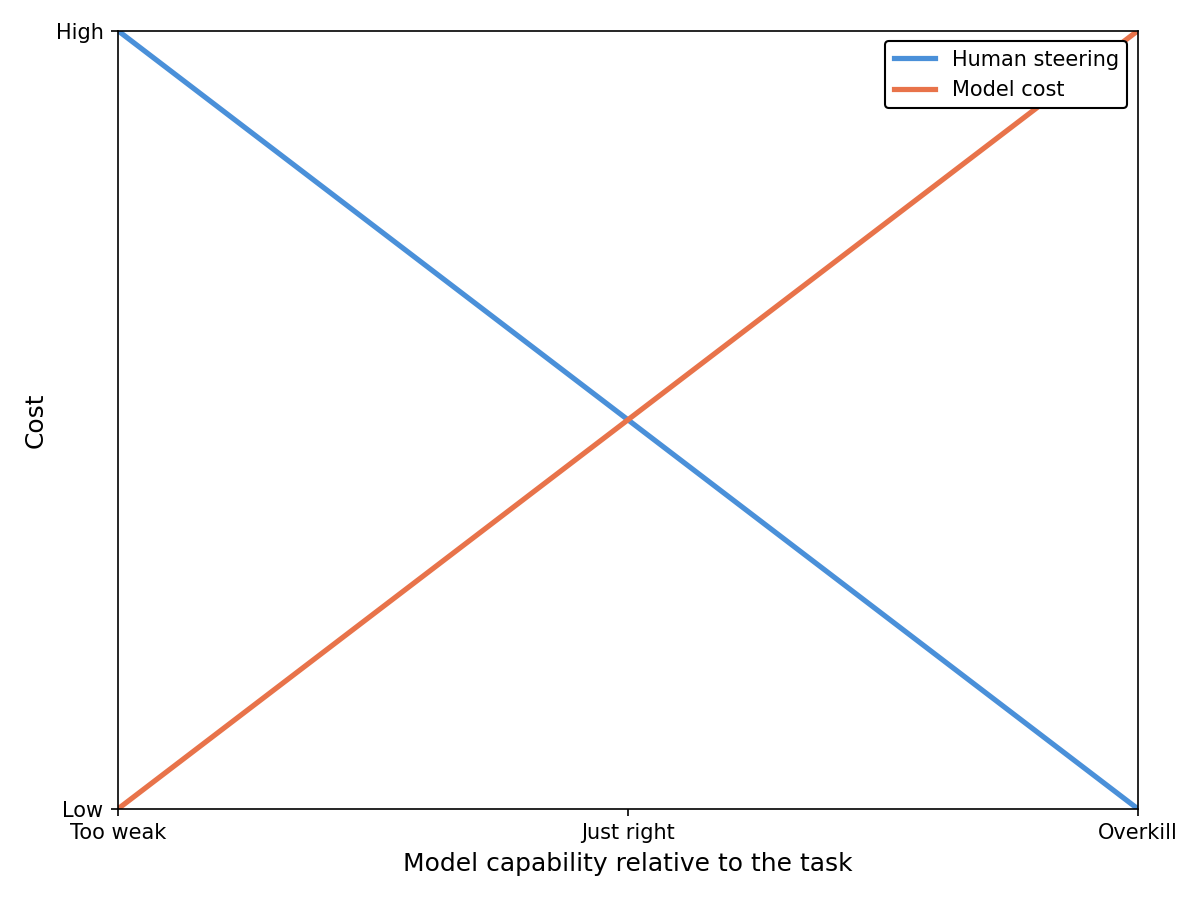
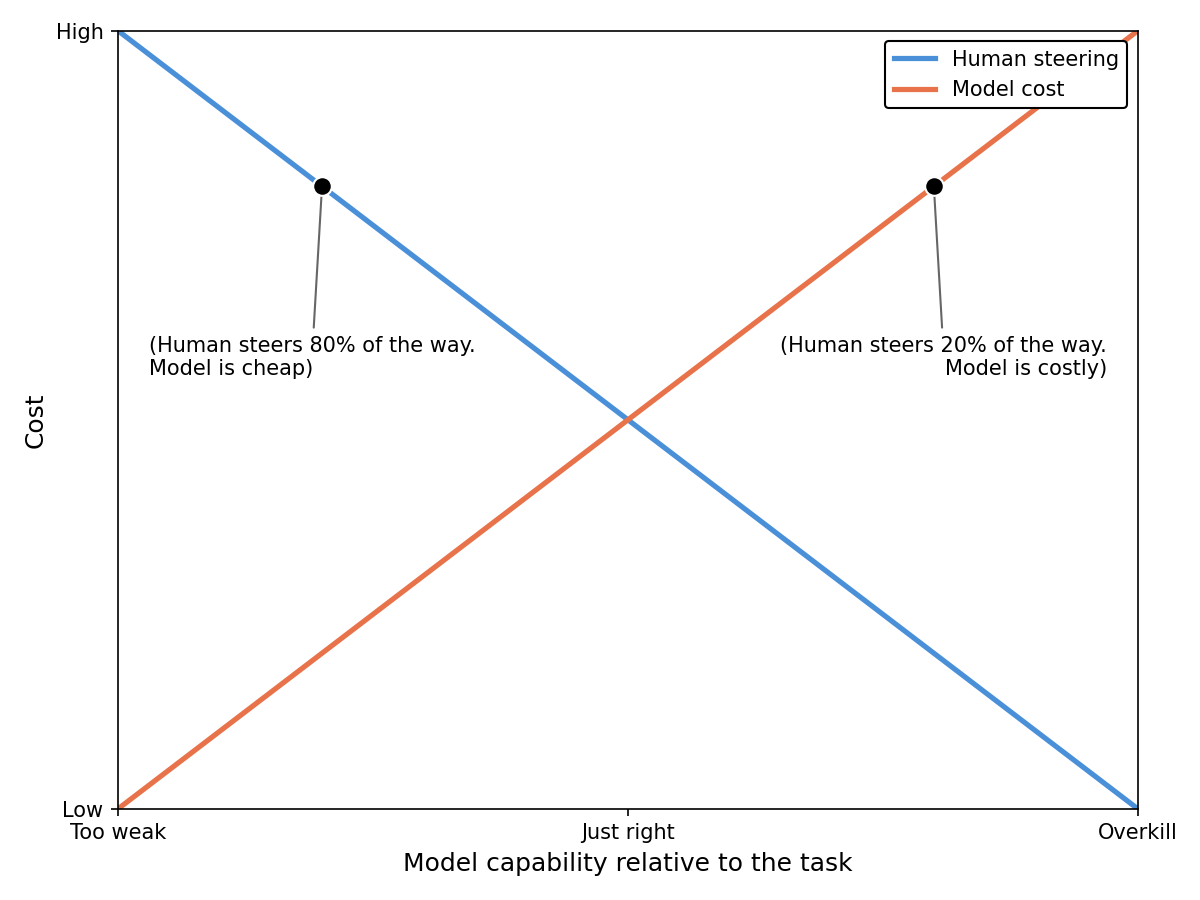
some thoughts i had after writing the draft last night

diff --git a/blog/capabilities/index.html b/blog/capabilities/index.html
@@ -3,7 +3,7 @@
 <head>
     <meta charset="utf-8"/>
     <meta name="viewport" content="width=device-width, initial-scale=1"/>
-    <meta name="source-hash" content="52bf99c783b09c94"/>
+    <meta name="source-hash" content="03a15cfab1483d7d"/>
     <title>Capabilities</title>
     <script src="/dist/theme.js"></script>
     <script>try { localStorage.setItem('locale', 'en'); } catch (e) {}</script>
@@ -82,55 +82,55 @@
     </div>
     
     <article id="post-content"><p>I attended an economics class in Berkeley during my freshman year in San Francisco. A friend studying there invited me to go visit. He had to do something through the afternoon and left me in one of the halls. At the time I thought I wanted to do economics, so I was glad to find out one of the lectures in that hall was Berkeley&#39;s microeconomics course, ECON 100A, and decided to attend it during the Spring.</p>
-<p>Ironically, the more I studied economics, the more skeptical I felt about it as a social science. I found it too constrained by theory and unreasonable assumptions. </p>
-<p>It was nevertheless a fun subject to study. I have hundreds of pages from notes I would take on an oversized drawing tablet plugged into my computer that must&#39;ve looked the silliest set-up of anyone in the hall. </p>
+<p>Ironically, the more I studied economics, the more skeptical I felt about it as a social science. I found its theories too constrained and based on unreasonable assumptions.</p>
+<p>It was nevertheless a fun subject to study. I have hundreds of pages from notes I took on an oversized drawing tablet plugged into my computer that must&#39;ve looked the silliest set-up of anyone in the hall. </p>
 <p>My favorite concept I learned in that class is dead-weight loss, or DWL for brevity. Feel free to skip this section if you&#39;re already familiarized (<a href="#after-dwl">click here</a>). </p>
-<p>Imagine you have a seller - say, a business - and many buyers that want to buy a good from that seller. We assume the seller wants to earn the most amount of money possible and buyers want to acquire as many units of the good as possible. </p>
-<p>How does that good get priced? Some buyers might be willing to pay more for it than others, so the seller sets prices high. This seems reasonable, but if 8 buyers were able to pay $12 each while 2 were able to pay $40, setting the price of the good to $40 is a <em>net</em> loss at $80, as pricing it at $12 would net $96, leaving a $16+ difference on the table. Not to mention the social effects making the good available to more people might have<sup><a id="footnote-ref-1" href="#footnote-1" data-footnote-ref aria-describedby="footnote-label">1</a></sup>. </p>
+<p>Imagine you have a seller - say, a business - and many buyers that want to buy a good from that seller. We assume the seller wants to earn the largest amount of money possible and there are many buyers that can each afford the product at a different price point. </p>
+<p>How does that good get priced? Some buyers might be willing to pay more for it than others, so the seller could set prices high. This seems reasonable, but if 8 buyers were able to pay $12 each while 2 were able to pay $40, setting the price of the good to $40 is a <em>net</em> loss at $80, as pricing it at $12 would net $96, leaving a $16+ difference on the table. Not to mention the social effects making the good available to more people might have<sup><a id="footnote-ref-1" href="#footnote-1" data-footnote-ref aria-describedby="footnote-label">1</a></sup>. </p>
 <p>Let&#39;s formalize this: </p>
 <ul>
-<li>In this example, the seller can price the good at any price in the range 1-100. This is called the <em>supply curve</em>.</li>
-<li>Some number of buyers can afford the good at a given price within the range. This is called the <em>demand curve</em>. For our example, we&#39;ll consider 10 buyers total, each able to afford it at a different price.</li>
+<li>The seller can price the good at any price in the range 1-100. This is called the <em>supply curve</em>.</li>
+<li>Some number of buyers can afford the good at a given price. This is called the <em>demand curve</em>. We&#39;ll consider 10 buyers total, each able to afford it at a different price.</li>
 </ul>
-<p>We can plot each of these curves against each other. This will be helpful for finding what is the optimal price a seller should sell their product at. </p>
+<p>We can plot each of these curves against each other. This will be helpful for finding the optimal price a seller should sell their product at. </p>
 <p><img src="/blog/assets/figures/en/supply-demand-curves.png" alt="Supply and demand curves plotted as price against quantity." title="Supply and Demand Curves"></p>
-<p>We see all 10 people can afford a unit of the good when the price is zero. Yet the seller can&#39;t offer it for less than $10 (this may be their break-even price). Perhaps they can offer the good at $80 for the two people who can afford it. What should they do?</p>
-<p>The optimal price to quantity ratio lies in the intersection of the two curves. Intuitively, it&#39;s the maximum number of units the seller can sell at the highest price. Five units at $50 each nets $250. Much higher than the $160 from selling two units at $80, and higher than selling a lot of units at $20, also totalling $160. We can visualize this. </p>
+<p>All 10 people can afford a unit of the good when the price is zero. Yet the seller can&#39;t offer it for less than $10 (this may be their break-even price). Should they price high or low?</p>
+<p>The optimal price lies in the intersection of the two curves. Intuitively, it&#39;s the maximum number of units the seller can sell at the highest price. Five units at $50 each nets $250. Much higher than the $160 from selling two units at $80, and higher than selling a lot of units at $20, also totalling $160. We can visualize this. </p>
 <p><img src="/blog/assets/figures/en/supply-demand-equilibrium.png" alt="Supply and demand curves with the equilibrium and two alternative price points marked." title="Equilibrium and Alternative Price Points"></p>
-<p>This is the scenario with <em>the most given for the most paid</em>, and is called a state of equilibrium. We can now talk about dead-weight loss (DWL). </p>
-<p>Conceptually, DWL is the profit the seller could&#39;ve made had they priced their product closer to equilibrium when the product is too expensive or cheap. </p>
-<p>We visualize it as the area occupied between the corners of 1) the equilibrium point, 2) the point at the demand curve the good was priced at, and 3) the point on the supply curve at the same quantity. 2 and 3 are parallel to each other, making DWL look like a triangle. Let&#39;s visualize it for when the good is sold at $80. </p>
+<p>This is the scenario with the <em>most given</em> for the <em>most paid</em>, and is called a state of equilibrium. We can now talk about dead-weight loss (DWL). </p>
+<p>DWL is the profit the seller could&#39;ve made had they priced their product closer to equilibrium when the product is too expensive or cheap. </p>
+<p>We visualize it as the area between the corners of 1) the equilibrium point, 2) the point at the demand curve the good was priced at, and 3) the point on the supply curve at the same quantity. 2 and 3 are parallel to each other, making DWL look like a triangle. Let&#39;s visualize it for when the good is sold at $80. </p>
 <p><img src="/blog/assets/figures/en/supply-demand-dwl.png" alt="Deadweight loss triangle between the supply and demand curves when the good is sold at $80." title="Deadweight Loss at a Price of $80"></p>
-<p>The area in the triangle - the gap between the demand curve and the supply curve - represents goods the seller could&#39;ve sold had they priced their product closer to equilibrium, letting them net a higher profit. </p>
-<p>DWL on the other side of the graph is profit the seller is losing due to pricing the good at too low of a price. It&#39;s sometimes referred to as philanthropy - ok, no, but you get the idea. It&#39;s when consumers are benefiting at the cost of money the business could&#39;ve kept for itself.</p>
+<p>The area in the triangle represents goods the seller could&#39;ve sold had they priced their product closer to equilibrium, letting them net a higher profit. </p>
+<p>DWL on the other side of the graph is profit the seller is missing out on due to pricing the good too low. It&#39;s sometimes referred to as philanthropy - ok, no, but you get the idea. It&#39;s when consumers are benefiting at the cost of money the business could be making if the good was priced higher.</p>
 <p><img src="/blog/assets/figures/en/supply-demand-dwl-low-price.png" alt="Deadweight loss triangle between the supply and demand curves when the good is sold at $20." title="Deadweight Loss at a Price of $20"></p>
-<p>Congrats! You now know some undergraduate microeconomics. You can now ask: &quot;Why doesn&#39;t Apple price their old stock lower given it&#39;s worth less and some people might still buy it? Doesn&#39;t that minimize DWL?&quot; and realize the real world isn&#39;t as simple and interpretable as this model<sup><a id="footnote-ref-2" href="#footnote-2" data-footnote-ref aria-describedby="footnote-label">2</a></sup>.</p>
+<p>Congrats! You now know some undergraduate microeconomics. Try asking: &quot;Why doesn&#39;t Apple price their old stock lower given it&#39;s worth less and some people might still buy it? Doesn&#39;t that minimize DWL?&quot; and realize the real world isn&#39;t as simple and interpretable as this model<sup><a id="footnote-ref-2" href="#footnote-2" data-footnote-ref aria-describedby="footnote-label">2</a></sup>.</p>
 <p><a id="after-dwl"></a></p>
-<p>Ok, so why am I writing about DWL? I see some parallels between ideas in DWL Minimization and the current paradigms of coding agents. </p>
+<p>Ok, so why am I writing about DWL? I see some parallels between ideas in DWL Minimization (the use of calculus to find points of equilibria for different supply and demand curves) and the current paradigms of coding agents. </p>
 <p>I work extensively with coding agents. Almost every day I&#39;m prompting, reviewing code, etc<sup><a id="footnote-ref-3" href="#footnote-3" data-footnote-ref aria-describedby="footnote-label">3</a></sup>. </p>
-<p>I&#39;ve observed that there is an inverse relationship between the skill needed [by a human] to accomplish a task and how good a model is. </p>
-<p>Example: if you&#39;re working with a frontier model, it&#39;s generally sufficient to ask for what you want. &quot;Fix this bug&quot;, &quot;Add X feature&quot;, etc. If you&#39;re working with small models (with 30B parameters or lower), they need considerably more hand holding. Prompts need to be longer and specific because otherwise the models get lost in thought and churn their context windows before doing anything useful.</p>
-<p>In other words: when a model is bad/limited at a task, humans supplement its deficiency with their own skills and steering. This is true for any task that frontier models aren&#39;t already good at or when using handicapped models. It&#39;s part of why Open Weight models aren&#39;t as big of a threat as they may seem in cybersecurity. You still need knowledgeable humans (and a ton of compute) to get the most out of them, at least for now.  </p>
-<p>We can map these concepts onto the first graph if we swap the Demand curve with Human steering and the Supply curve with Model cost. The x-axis represents how capable a model is relative to the task: at the very left, the model is too weak for it. At the very right, it&#39;s overkill. The y-axis represents what you pay. The height of the human line is how much steering the model needs from you, just as the height of the model line is what the model costs. The more capable the model, the less steering it needs and the more it costs.  </p>
-<p>Let&#39;s reintroduce the first graph with these changes.</p>
+<p>I&#39;ve observed an inverse relationship between the skill needed by a human to accomplish a task and how good a model is. </p>
+<p>For example, if you&#39;re working with a frontier model, it&#39;s generally sufficient to ask for what you want. &quot;Fix this bug&quot;, &quot;Add X feature&quot;, etc. Working with small models (in the 10-100B parameters range) requires hand holding. Prompts need to be longer and specific because otherwise the models get lost in thought and churn their context windows before doing anything useful.</p>
+<p>In other words: when a model is bad/limited at a task, humans supplement its deficiency with their own skills and steering. This is currently true for any task that frontier models aren&#39;t good at or when using handicapped models. It&#39;s part of why open-weight models aren&#39;t as big of a threat as they may seem in cybersecurity and biology. You still need knowledgeable humans to get the most out of them, at least for now.  </p>
+<p>We can map these concepts onto the first graph if we swap the Demand curve with Human steering and the Supply curve with Model cost. I assume more capable models are more expensive.</p>
+<p>The x-axis represents how capable a model is relative to the task: at the left, the model is too weak for it and cheap. At the right, it&#39;s overkill and expensive. The y-axis represents what you pay. The height of the human line is how much steering the model needs from you, as the height of the model line is what the model costs. The more capable the model, the less steering it needs and the more it costs.  </p>
 <p><img src="/blog/assets/figures/en/human-model-curves.png" alt="Human steering and model cost plotted against how capable the model is relative to the task." title="Human Steering and Model Cost"></p>
-<p>You might think we always want to be on the rightmost side of it. I think that constitutes dead-weight loss for both economic and practical reasons. </p>
-<p>One simple example is using frontier models for trivial changes that a smaller model could&#39;ve made. E.g., changing the copy in a page or running trivial git commands (when was the last time you prompted &#39;yes, push it&#39;?). </p>
+<p>A simple example to illustrate DWL in this graph is when frontier models are used for trivial work that a smaller model could do. E.g., changing the copy in a page or running trivial git commands (when was the last time you prompted &#39;yes, push it&#39;?). </p>
 <p><img src="/blog/assets/figures/en/human-model-overreliance.png" alt="Deadweight loss on the right side of the human steering and model cost graph, where a frontier model is used for a trivial task." title="Deadweight Loss From an Overpowered Model"></p>
-<p>The economic argument is obvious: you&#39;re using frontier tokens for trivial tasks. Ideally, you&#39;d want to save the cost.</p>
-<p>The practical argument is that if token spend wasn&#39;t a concern, it would probably be faster if you used a smaller/faster model. Like if Cursor&#39;s Composer did it rather than have Astra think for a minute straight. </p>
-<p>And even if your very smart model was ultra fast, that is expensive right now, so the economical argument still holds: others <em>could</em> do the same thing just as fast for cheaper, if we had the systems to transfer context efficiently (sort of pass the ball but for models).</p>
+<p>The economic argument against this is obvious: you&#39;re using frontier tokens for trivial tasks. Ideally, you&#39;d want to save the cost.</p>
+<p>The practical argument is that if token spend wasn&#39;t a concern, it would probably be faster if you used a smaller model. Like if Cursor&#39;s Composer did it rather than have Astra think for a minute. </p>
+<p>And even if your very smart model was ultra fast, that is expensive right now, so the economical argument still holds: others <em>could</em> do the same thing just as fast for cheaper if we had the systems to transfer context efficiently and on the spot.</p>
 <p>I see this mattering in the short to medium term but not the long term. </p>
-<p>When token subsidies stop, a system to auto-route prompts and tasks will become valuable to save unnecessary spending and time. Both for employees using AI and systems within the company that are heavily token-subsidized<sup><a id="footnote-ref-4" href="#footnote-4" data-footnote-ref aria-describedby="footnote-label">4</a></sup>. </p>
+<p>When token subsidies stop, a system to auto-route prompts and tasks will become valuable to save unnecessary spending and time. Both for employees using AI and systems within companies that are heavily token-subsidized<sup><a id="footnote-ref-4" href="#footnote-4" data-footnote-ref aria-describedby="footnote-label">4</a></sup>. </p>
 <p>Long-term, I expect frontier intelligence to become too cheap to meter and very fast. If the labs maintain token subsidies until that happens, it&#39;ll be less of an issue. </p>
-<p>If frontier intelligence does increase in cost, I see three technical challenges need to be cleared for a &quot;DWL-optimized harness&quot; that chooses the right intelligence and speed for a task: </p>
+<p>We&#39;ve seen this to be true empirically when labs release smaller versions of their frontier models (Fable, GPT 6.1 Sol) that are similarly capable for much cheaper. </p>
+<p>I still think a &quot;DWL-optimized harness&quot; will be useful when intelligence diffuses to the economy and token usage grows by many magnitudes. Most tasks will be done for nickles, if the infrastructure enables it. I see three technical challenges in the way:</p>
 <ul>
-<li>Transferring context efficiently: how to transfer context between models cheaply and quickly, ideally at as close to zero cost and latency. This is most important for individual tasks.</li>
-<li>Parallelism: if many models are doing many tasks, how can inference providers maximize GPU utilization and KV Cache / model weights offloading and reloading so that every watt of compute is being routed to something at a given time. </li>
+<li>Transferring context efficiently: how to transfer context between models at as close to zero cost and latency as possible. This is important for individual tasks and threads.</li>
+<li>Parallelism: if many models are doing many tasks, how can inference providers maximize GPU utilization and KV Cache / model weights offloading and reloading so every watt of compute is utilized constantly.</li>
 <li>Model Profiling: you don&#39;t need to route requests each time if you already know what models sit at equilibria. To my knowledge, there isn&#39;t an all-purpose toolbench to do this yet.</li>
 </ul>
-<p>I expect that while intelligence is subsidized, companies and individuals will use frontier models because it feels like the safe choice and it requires less steering. Budget-conscious organizations will make their own evals and perhaps even RL small models on them (like <a href="https://x.com/RampLabs/status/2052447438795833506">Ramp</a> did). </p>
-<p>But to diffuse AI into the wider economy at its current price, much work needs to be done on simple to use optimizers that small and medium sized organizations can use to save their token spend, both for use by individuals within an organization and for specific tasks. </p>
+<p>I expect that while intelligence is subsidized, companies and individuals will keep using frontier models because it feels like the safe choice and requires less steering. Budget-conscious organizations will make their own evals and perhaps even RL small models on them (like <a href="https://x.com/RampLabs/status/2052447438795833506">Ramp</a> did). </p>
+<p>But to diffuse AI into the wider economy, much work needs to be done on simple to use optimizers that small and medium sized organizations can use to save on their token spend, both for individuals within an organization and for specific tasks. </p>
 <p>Paraphrased: Jev might be very cheap but your average store clerk or non-profit worker isn&#39;t gonna get an API key and make an eval to see if it beats Astra at their classification task. Hence the need for diffusion companies.  </p>
 <p>In the graph, the equilibria makes sense if you think about it as the model with the best speed, price, and intelligence for the task. Getting there takes human effort: setting up the infrastructure and evals to find that model (both pre-selecting it or changing it at runtime). Whereas using a frontier model avoids you the work but costs a lot.</p>
 <p><img src="/blog/assets/figures/en/human-model-equilibrium.png" alt="Equilibrium between human steering and model cost, where the model is just right for the task." title="Equilibrium Between Human Steering and Model Cost"></p>
@@ -139,17 +139,17 @@
 <p>I was recently experimenting with the Qwen family of models, running them locally on my computer with Ollama. It was disappointing. They know a lot and can pull off impressive tricks for a small model, but as soon as you throw a real task at them, they blow their context budgets overthinking unnecessary details.</p>
 <p><img src="/blog/assets/figures/en/human-model-underreliance.png" alt="Deadweight loss on the left side of the human steering and model cost graph, where a small model needs heavy human guidance." title="Deadweight Loss From an Underpowered Model"></p>
 <p>I could only get them to do what I wanted by pointing out the exact lines of code they had to look at. I even had to change some code by hand because even though I&#39;d tell them five times in a row to execute the change, it just thought, and thought, until its context overflowed. </p>
-<p>Another dimension the graph doesn&#39;t capture is time<sup><a id="footnote-ref-5" href="#footnote-5" data-footnote-ref aria-describedby="footnote-label">5</a></sup>. It took me considerably longer to finish my project with Qwen because it needed so much handholding. I knew frontier models would&#39;ve been done in way less time. It also doesn&#39;t capture the qualitative difference in mental load: it is so much easier to just prompt your way through. You don&#39;t really need to think. </p>
+<p>Another dimension the graph doesn&#39;t capture is time<sup><a id="footnote-ref-5" href="#footnote-5" data-footnote-ref aria-describedby="footnote-label">5</a></sup>. It took me considerably longer to finish my project with Qwen because it needed so much handholding. I knew frontier models would&#39;ve been done in way less time. It also doesn&#39;t capture the difference in mental load: it is so much easier to prompt your way through. You don&#39;t really need to think. </p>
 <p>Though, in my case, I chose to work my way through it because I wanted to experiment. In the real world, DWL on the left is visible on tasks that the models aren&#39;t good at <em>yet</em>. The odd finance benchmarks, ML research benchmarks, and computer use tasks. You still need people reviewing and steering the model&#39;s outputs. </p>
-<p>In my opinion, if accuracy can be quantified and the task is economically valuable, they will be conquered eventually, likeliest first at the frontier, shifting to the right. This is true of tasks where labs and startups have an interest to introduce automation. It&#39;s part of the diffusion process. </p>
+<p>If accuracy can be quantified and the task is economically valuable, they will be conquered eventually, likeliest first at the frontier, shifting to the right. This is true of tasks where labs and startups have an interest to introduce automation. It&#39;s part of the diffusion process. </p>
 <p>Last, the analogy doesn&#39;t capture some qualitative aspects of models.</p>
 <p>Like how I&#39;d rather use Claude for anything conversational, or Codex for computer use. It doesn&#39;t capture how people begin to trust that a model will get it right 90% of the time and use it for specific work.</p>
-<p>It assumes models are simply capable and without character. But it can be reconciled if we think of the x-axis as a model family, e.g., Haiku being underpowered, Sonnet generally balanced, and Opus often overkill.</p>
+<p>It discounts qualitative differences in the character of different model lines. This is partly reconciled if we think of the x-axis as a model family, e.g., Haiku being underpowered, Sonnet generally balanced, and Opus often overkill.</p>
 <p>Together, both parts of the graph paint a cohesive story: the frontier will lay the groundwork at the toughest challenges in an expensive, inefficient way, while diffusion makes them economically viable and fast.</p>
 <p>I see two paths going forward for the future of work:</p>
 <ul>
 <li>Skills that can not be optimized against (yet) will become increasingly valuable. E.g., interpersonal communication, relationship building.</li>
-<li>If we do optimize everything optimizable (though I expect this to take really long), we&#39;ll make different problems for ourselves that 
+<li>If we do optimize everything optimizable (though I expect this to take a long while), we&#39;ll make different problems for ourselves that 
 require skills outside the scope of optimization (see <a href="https://asteriskmag.com/issues/15/after-work-we-ll-have-each-other">this</a> essay).</li>
 </ul>
 <p>In either case, we&#39;ll be better off from it. It will provide healthcare and education for millions of people in underprivileged areas, enable massive social mobility - the works. That is, if we align it. </p>
@@ -157,10 +157,10 @@ require skills outside the scope of optimization (see <a href="https://asteriskm
 <h2 id="footnote-label" class="sr-only">Footnotes</h2>
 <ol>
 <li id="footnote-1">
-<p>Ideally, each customer would be charged the maximum they can pay. This is referred to as first degree pricing. But often sellers don&#39;t know what that maximum price is, and instead offer many options at different tiers (ex. 1st class, premium economy, economy) so the buyer chooses for themselves. This is referred to as second degree pricing. Third degree pricing forces customers to segment by making the quality gap between the options large or enforcing tiers (ex. student discounts). They all aim to extract as much of what the customer can pay for a good from them, which is referred to as their surplus. <a href="#footnote-ref-1" data-footnote-backref aria-label="Back to reference 1">↩</a></p>
+<p>Ideally, each customer would be charged the maximum they can pay. This is referred to as first degree pricing. But often sellers don&#39;t know what that maximum price is, and instead offer many options at different tiers (e.g. 1st class, premium economy, economy) so the buyer chooses for themselves. This is referred to as second degree pricing. Third degree pricing forces customers to segment by making the quality gap between the options large or enforcing tiers (e.g. student discounts). They all aim to extract as much of what the customer can pay for a good from them, which is referred to as their surplus. <a href="#footnote-ref-1" data-footnote-backref aria-label="Back to reference 1">↩</a></p>
 </li>
 <li id="footnote-2">
-<p>Though, it follows very similar rules. If you study economics further, I encourage you to learn about the concept of the &quot;invisible hand&quot;. TLDR: markets minimize DWL on their own because inefficient arrangements will get outcompeted or outpriced by an incumbent. But I won&#39;t spoil it for you. Go read!  <a href="#footnote-ref-2" data-footnote-backref aria-label="Back to reference 2">↩</a></p>
+<p>Though, it follows similar rules. If you study economics further, I encourage you to learn about the concept of the &quot;invisible hand&quot;. TLDR: markets minimize DWL on their own because inefficient arrangements will get outcompeted or outpriced by an incumbent. But I won&#39;t spoil it for you. Go read!  <a href="#footnote-ref-2" data-footnote-backref aria-label="Back to reference 2">↩</a></p>
 </li>
 <li id="footnote-3">
 <p>1 Billion tokens a day keeps the doctor away.   <a href="#footnote-ref-3" data-footnote-backref aria-label="Back to reference 3">↩</a></p>

diff --git a/blog/assets/code/supply-demand-curves.py b/blog/assets/code/supply-demand-curves.py
@@ -112,6 +112,24 @@ DWL_SCENARIOS = [
     },
 ]
 
+# Each example: model capability, the curve the dot sits on, and its label text position and alignment
+HUMAN_MODEL_EXAMPLE_POINTS = [
+    {
+        'capability': 20,
+        'curve': human_steering_share,
+        'label': '(Human steers {steering:.0f}% of the way.\nModel is cheap)',
+        'text_xy': (3, 58),
+        'align': 'left',
+    },
+    {
+        'capability': 80,
+        'curve': model_skill_share,
+        'label': '(Human steers {steering:.0f}% of the way.\nModel is costly)',
+        'text_xy': (97, 58),
+        'align': 'right',
+    },
+]
+
 EXAMPLE_POINTS = [
     {'quantity': 2, 'text_xy': (2.6, 92), 'align': 'left'},
     {'quantity': 5, 'text_xy': (6.0, 50), 'align': 'left'},
@@ -165,6 +183,14 @@ def draw_example_points(ax, bg, fg):
         quantity = example['quantity']
         point_xy = (quantity, price_on_demand_curve(quantity))
         draw_labeled_point(ax, bg, fg, point_xy, point_label(quantity), example['text_xy'], example['align'])
+
+
+def draw_human_model_example_points(ax, bg, fg):
+    for example in HUMAN_MODEL_EXAMPLE_POINTS:
+        capability = example['capability']
+        point_xy = (capability, example['curve'](capability))
+        label = example['label'].format(steering=human_steering_share(capability))
+        draw_labeled_point(ax, bg, fg, point_xy, label, example['text_xy'], example['align'])
 
 
 def dwl_colormap(traded_x, equilibrium_x):
@@ -271,7 +297,8 @@ def main():
     OUTPUT_DIR.mkdir(parents=True, exist_ok=True)
     for theme in ['dark', 'light']:
         render(theme, 'supply-demand-curves', with_points=False)
-        render(theme, 'human-model-curves', with_points=False, spec=HUMAN_MODEL_SPEC)
+        render(theme, 'human-model-curves', with_points=False, spec=HUMAN_MODEL_SPEC,
+               extra_drawing=draw_human_model_example_points)
         render(theme, 'human-model-equilibrium', with_points=False, spec=HUMAN_MODEL_SPEC,
                extra_drawing=draw_human_model_equilibrium_point)
         render(theme, 'human-model-underreliance', with_points=False, spec=HUMAN_MODEL_SPEC,

diff --git a/blog/posts/capabilities.md b/blog/posts/capabilities.md
@@ -42,17 +42,19 @@ Congrats! You now know some undergraduate microeconomics. Try asking: "Why doesn
 
 <a id="after-dwl"></a>
 
-Ok, so why am I writing about DWL? I see some parallels between ideas in DWL Minimization (the use of calculus to find, for varying supply and demand curves, points of equilibria) and the current paradigms of coding agents. 
+Ok, so why am I writing about DWL? I see some parallels between ideas in DWL Minimization (the use of calculus to find points of equilibria for different supply and demand curves) and the current paradigms of coding agents. 
 
 I work extensively with coding agents. Almost every day I'm prompting, reviewing code, etc[^3]. 
 
 I've observed an inverse relationship between the skill needed by a human to accomplish a task and how good a model is. 
 
-For example, if you're working with a frontier model, it's generally sufficient to ask for what you want. "Fix this bug", "Add X feature", etc. Working with small models (in the 10-100B parameters range) requires more hand holding. Prompts need to be longer and specific because otherwise the models get lost in thought and churn their context windows before doing anything useful.
+For example, if you're working with a frontier model, it's generally sufficient to ask for what you want. "Fix this bug", "Add X feature", etc. Working with small models (in the 10-100B parameters range) requires hand holding. Prompts need to be longer and specific because otherwise the models get lost in thought and churn their context windows before doing anything useful.
 
-In other words: when a model is bad/limited at a task, humans supplement its deficiency with their own skills and steering. This is currently true for any task that frontier models aren't good at or when using handicapped models. It's part of why Open Weight models aren't as big of a threat as they may seem in cybersecurity and biology. You still need knowledgeable humans to get the most out of them, at least for now.  
+In other words: when a model is bad/limited at a task, humans supplement its deficiency with their own skills and steering. This is currently true for any task that frontier models aren't good at or when using handicapped models. It's part of why open-weight models aren't as big of a threat as they may seem in cybersecurity and biology. You still need knowledgeable humans to get the most out of them, at least for now[^4].  
 
-We can map these concepts onto the first graph if we swap the Demand curve with Human steering and the Supply curve with Model cost. The x-axis represents how capable a model is relative to the task: at the left, the model is too weak for it. At the right, it's overkill. The y-axis represents what you pay. The height of the human line is how much steering the model needs from you, just as the height of the model line is what the model costs. The more capable the model, the less steering it needs and the more it costs.  
+We can map these concepts onto the first graph if we swap the Demand curve with Human steering and the Supply curve with Model cost. I assume more capable models are more expensive.
+
+The x-axis represents how capable a model is relative to the task: at the left, the model is too weak for it and cheap. At the right, it's overkill and expensive. The y-axis represents what you pay. The height of the human line is how much steering the model needs from you, as the height of the model line is what the model costs. The more capable the model, the less steering it needs and the more it costs.  
 
 ![Human steering and model cost plotted against how capable the model is relative to the task.](/blog/assets/figures/en/human-model-curves.png "Human Steering and Model Cost")
 
@@ -62,24 +64,27 @@ A simple example to illustrate DWL in this graph is when frontier models are use
 
 The economic argument against this is obvious: you're using frontier tokens for trivial tasks. Ideally, you'd want to save the cost.
 
-The practical argument is that if token spend wasn't a concern, it would probably be faster if you used a smaller/faster model. Like if Cursor's Composer did it rather than have Astra think for a minute. 
+The practical argument is that if token spend wasn't a concern, it would probably be faster if you used a smaller model. Like if Cursor's Composer did it rather than have Astra think for a minute. 
 
-And even if your very smart model was ultra fast, that is expensive right now, so the economical argument still holds: others *could* do the same thing just as fast for cheaper, if we had the systems to transfer context efficiently (sort of pass the ball but for models).
+And even if your very smart model was ultra fast, that is expensive right now, so the economical argument still holds: others *could* do the same thing just as fast for cheaper if we had the systems to transfer context efficiently and on the spot.
 
 I see this mattering in the short to medium term but not the long term. 
 
-When token subsidies stop, a system to auto-route prompts and tasks will become valuable to save unnecessary spending and time. Both for employees using AI and systems within the company that are heavily token-subsidized[^4]. 
+When token subsidies stop, a system to auto-route prompts and tasks will become valuable to save unnecessary spending and time. Both for employees using AI and systems within companies that are heavily token-subsidized[^5]. 
 
 Long-term, I expect frontier intelligence to become too cheap to meter and very fast. If the labs maintain token subsidies until that happens, it'll be less of an issue. 
 
-If frontier intelligence does increase in cost, I see three technical challenges need to be cleared for a "DWL-optimized harness" that chooses the right intelligence and speed for a task: 
-- Transferring context efficiently: how to transfer context between models cheaply and quickly, ideally at as close to zero cost and latency. This is most important for individual tasks.
-- Parallelism: if many models are doing many tasks, how can inference providers maximize GPU utilization and KV Cache / model weights offloading and reloading so that every watt of compute is being routed to something at a given time. 
+We've seen this to be true empirically when labs release smaller versions of their frontier models (Fable, GPT 6.1 Sol) that are similarly capable for much cheaper. 
+
+I still think a "DWL-optimized harness" will be useful when intelligence diffuses to the economy and token usage grows by many magnitudes. Most tasks will be done for nickles, if the infrastructure enables it. I see three technical challenges in the way:
+
+- Transferring context efficiently: how to transfer context between models at as close to zero cost and latency as possible. This is important for individual tasks and threads.
+- Parallelism: if many models are doing many tasks, how can inference providers maximize GPU utilization and KV Cache / model weights offloading and reloading so every watt of compute is utilized constantly.
 - Model Profiling: you don't need to route requests each time if you already know what models sit at equilibria. To my knowledge, there isn't an all-purpose toolbench to do this yet. 
 
-I expect that while intelligence is subsidized, companies and individuals will use frontier models because it feels like the safe choice and it requires less steering. Budget-conscious organizations will make their own evals and perhaps even RL small models on them (like [Ramp](https://x.com/RampLabs/status/2052447438795833506) did). 
+I expect that while intelligence is subsidized, companies and individuals will keep using frontier models because it feels like the safe choice and requires less steering. Budget-conscious organizations will make their own evals and perhaps even RL small models on them (like [Ramp](https://x.com/RampLabs/status/2052447438795833506) did). 
 
-But to diffuse AI into the wider economy at its current price, much work needs to be done on simple to use optimizers that small and medium sized organizations can use to save their token spend, both for use by individuals within an organization and for specific tasks. 
+But to diffuse AI into the wider economy, much work needs to be done on simple to use optimizers that small and medium sized organizations can use to save on their token spend, both for individuals within an organization and for specific tasks. 
 
 Paraphrased: Jev might be very cheap but your average store clerk or non-profit worker isn't gonna get an API key and make an eval to see if it beats Astra at their classification task. Hence the need for diffusion companies.  
 
@@ -97,7 +102,7 @@ I was recently experimenting with the Qwen family of models, running them locall
 
 I could only get them to do what I wanted by pointing out the exact lines of code they had to look at. I even had to change some code by hand because even though I'd tell them five times in a row to execute the change, it just thought, and thought, until its context overflowed. 
 
-Another dimension the graph doesn't capture is time[^5]. It took me considerably longer to finish my project with Qwen because it needed so much handholding. I knew frontier models would've been done in way less time. It also doesn't capture the difference in mental load: it is so much easier to prompt your way through. You don't really need to think. 
+Another dimension the graph doesn't capture is time[^6]. It took me considerably longer to finish my project with Qwen because it needed so much handholding. I knew frontier models would've been done in way less time. It also doesn't capture the difference in mental load: it is so much easier to prompt your way through. You don't really need to think. 
 
 Though, in my case, I chose to work my way through it because I wanted to experiment. In the real world, DWL on the left is visible on tasks that the models aren't good at *yet*. The odd finance benchmarks, ML research benchmarks, and computer use tasks. You still need people reviewing and steering the model's outputs. 
 
@@ -124,6 +129,8 @@ In either case, we'll be better off from it. It will provide healthcare and educ
 
 [^3]: 1 Billion tokens a day keeps the doctor away.  
 
-[^4]: How many startups would be scrambling if the labs took away token subsidies today? Seriously. I was spending 6 figures in tokens at a previous startup (in API costs) every month. Had those been billed, it would've been like getting my salary paid twice! For a startup this might be OK, but at the scale of large companies or AI-native organizations, this'd be a huge financing issue. Ajeya Cotra talked about this [here](https://www.youtube.com/watch?v=Z19UEZHJzAg). In the future, some money will be directed towards buying API credits or GPUs instead of paying humans because intelligence will be cheaper and faster.
+[^4]: This also means less-skilled individuals can now do work that previously needed extensive training and experience. [This](https://cendyne.dev/posts/2026-10-11-fable-took-my-jorb.html) blog post by a developer laid off due to AI describes how their company chose to do layoffs because *"AI assistance raised the capability of work for the less passionate, less experienced, and less costly workforce"*. This isn't a new phenomenon. It's similar to how sewing machinery made jobs traditionally done by hand accessible to anyone, anywhere, who knew how to operate it, permitting offshoring in the '60s. It's the reason why hiring for engineering jobs is shifting from being technically focused to highlighting traditionally undervalued skills, as I discuss toward the end of the post.
 
-[^5]: As Naval [said](https://www.youtube.com/shorts/x-P119dx8xM): 'waste tokens to save time'.
+[^5]: How many startups would be scrambling if the labs took away token subsidies today? Seriously. I was spending 6 figures in tokens at a previous startup (in API costs) every month. Had those been billed, it would've been like getting my salary paid twice! For a startup this might be OK, but at the scale of large companies or AI-native organizations, this'd be a huge financing issue. Ajeya Cotra talked about this [here](https://www.youtube.com/watch?v=Z19UEZHJzAg). In the future, some money will be directed towards buying API credits or GPUs instead of paying humans because intelligence will be cheaper and faster.
+
+[^6]: As Naval [said](https://www.youtube.com/shorts/x-P119dx8xM): 'waste tokens to save time'.
